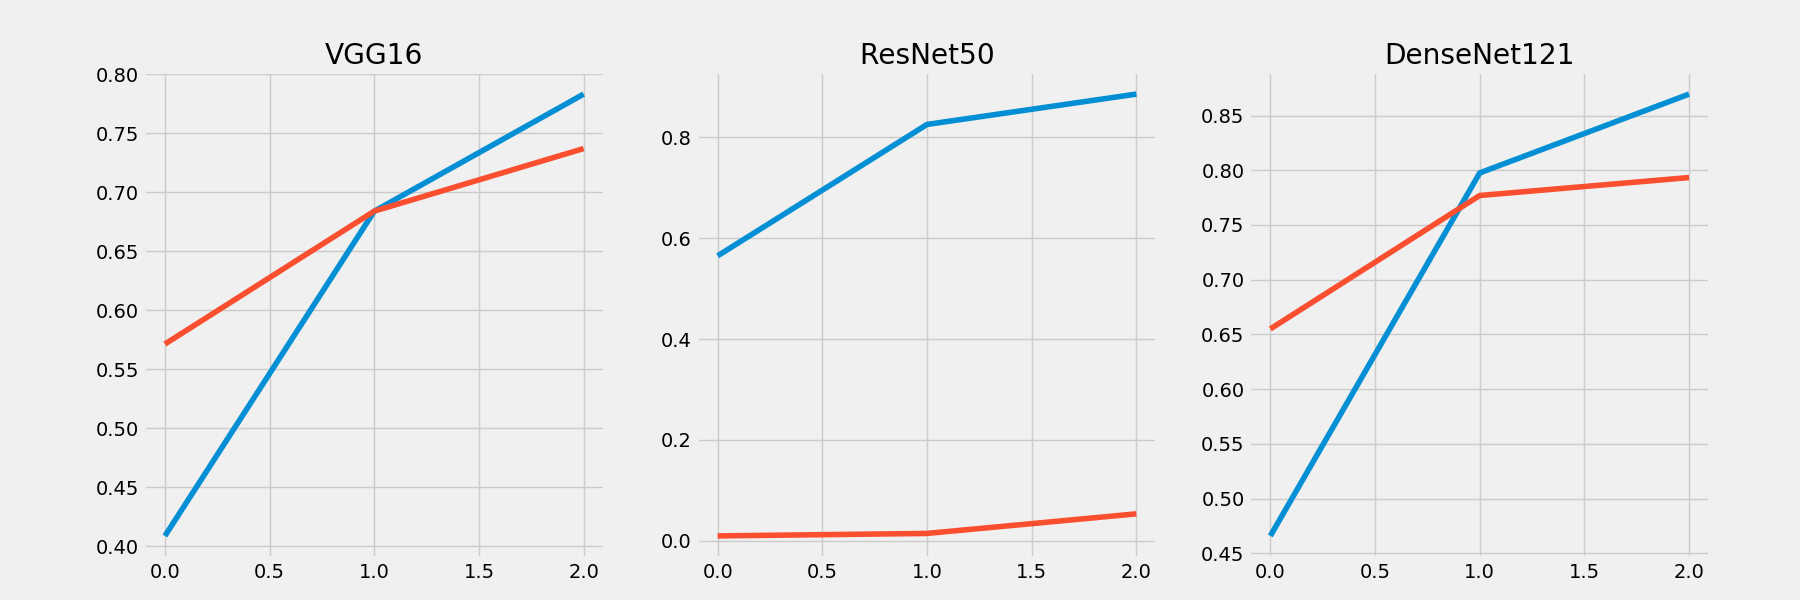
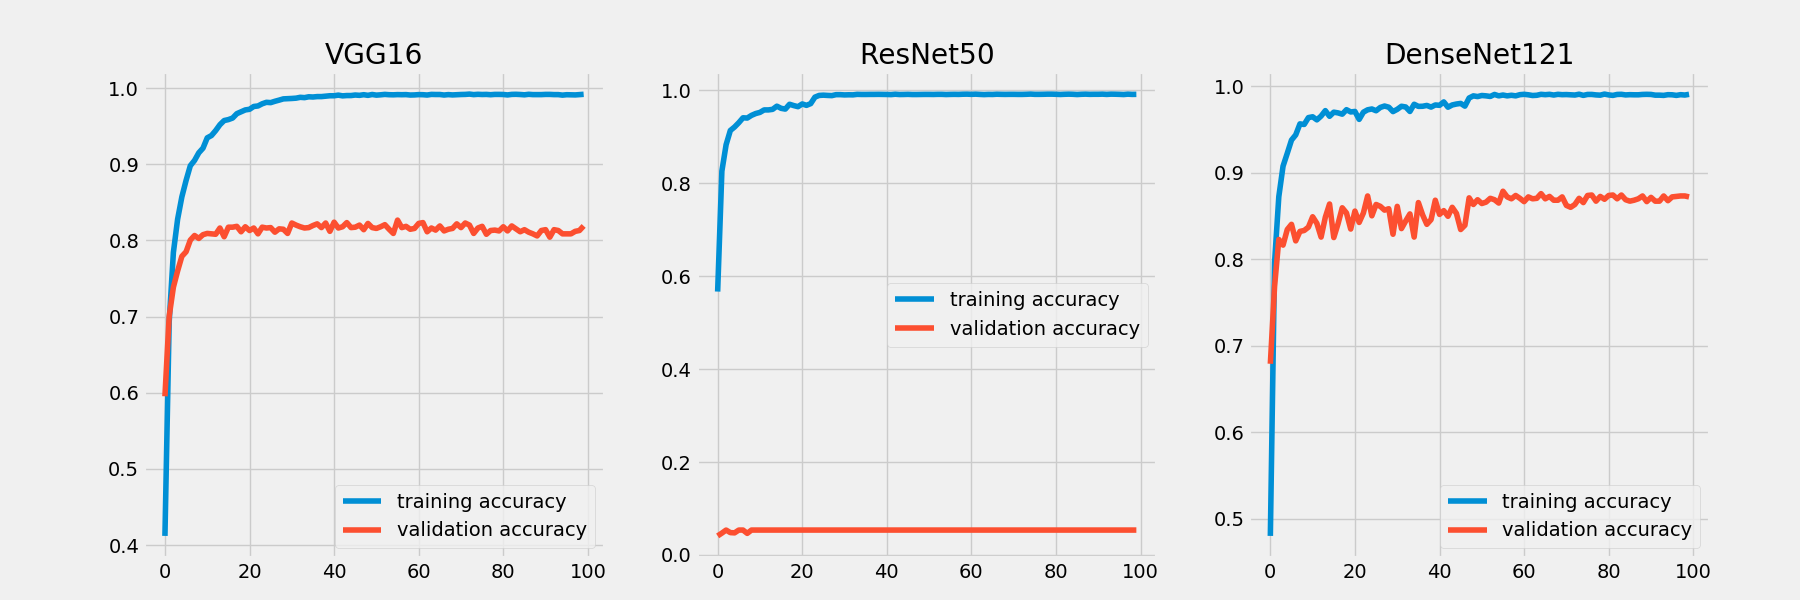
update resnet50 to resnet50v2

diff --git a/scripts/model.py b/scripts/model.py
@@ -32,7 +32,7 @@ def resnet50(input_shape, num_classes):
     :param num_classes:
     :return:
     """
-    net = tf.keras.applications.ResNet50(weights='imagenet', include_top=False, pooling='max')
+    net = tf.keras.applications.ResNet50V2(weights='imagenet', include_top=False, pooling='max')
     net.trainable = False  # 关闭预训练网络的参数训练
     resnet = tf.keras.Sequential([
         net,

diff --git a/scripts/train.py b/scripts/train.py
@@ -39,5 +39,5 @@ def train(epochs):
 
 
 if __name__ == '__main__':
-    training_history = train(3)
+    training_history = train(50)
     plot_history(training_history)
